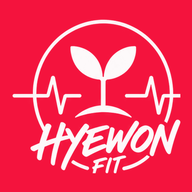
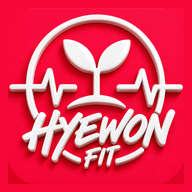
PWA 1.60.0 — 앱 아이콘을 3D 혜원핏 로고로(빨강 테마1·파랑 테마3)

diff --git a/index.html b/index.html
@@ -1,4 +1,5 @@
-<!-- 코드명: 혜원핏 PWA 학생앱 | index.html | @version 1.59.0 -->
+<!-- 코드명: 혜원핏 PWA 학생앱 | index.html | @version 1.60.0 -->
+<!--   [1.60.0] 앱 아이콘을 3D 혜원핏 로고로 — 빨강(테마 1)·파랑(테마 3)의 icon1/icon3 세트(180·192·512·maskable 192·512) 교체. 앱 안 로고(로그인·홈)도 같은 이미지(mask-512)를 쓴다. 이미 설치한 앱은 아이콘이 바로 안 바뀔 수 있다(다시 설치/홈 화면 추가). -->
 <!--   [1.59.0] 감상문 1번 «4주간의 나» 안내에 «계획대로 못 한 날·실패한 경험도 써요 — 왜 못 했는지, 그때 생각, 다음에는 어떻게»를 추가(4주를 못 채운 학생도 쓰도록). 글자수 기준(150자)은 그대로. -->
 <!--   [1.58.0] 감상문 2번 요소·원리 8칸의 최소 글자수(40자)를 없앴다 — 칸마다 «현재 N자»만 보이고, 비어 있지만 않으면 된다(서버 GAS 1.41.0).
         1번(150자)·3번(80자)·4번(80자)은 그대로. -->
@@ -2005,7 +2006,7 @@ body.apt::before{content:'🍎 애플 스타일 시범 · 3277';position:fixed;l
 <script>
 var API_BASE = 'https://script.google.com/macros/s/AKfycbzkiRulWoZvZs2q6NzDJM1I0aG43xnLjwuE-oY3PJ5R8kHbcSMRDfadG69kUIKzq-FN5A/exec';
 /* 학생앱(PWA) 버전·배포시각(KST) — 배포 때마다 갱신 */
-var PWA_VER = '1.59.0';
+var PWA_VER = '1.60.0';
 /* [1.34.0] 푸시 알림(FCM) — 파이어베이스 콘솔 «프로젝트 설정 → 일반 → 내 앱(웹)» 값. 비어 있으면 «🔔 알림 받기»가 «준비 중»으로 뜬다.
    sw.js 맨 위 FCM_CONFIG 에도 «똑같이» 채워야 한다(백그라운드 수신은 서비스워커가 처리). */
 var FCM_CONFIG = { apiKey:'AIzaSyC_InfCEKRIFqmFLus7npS4b-GejpDBJAE', authDomain:'heywonfit.firebaseapp.com', projectId:'heywonfit', storageBucket:'heywonfit.firebasestorage.app', messagingSenderId:'541314853089', appId:'1:541314853089:web:38220f47a5cb68ac696fa0' };

diff --git a/sw.js b/sw.js
@@ -6,7 +6,7 @@
    처음 이 판으로 바뀔 때도 옛 캐시에 있던 그림을 옮겨 담으므로 다시 받지 않는다.
    ★그림 파일을 «같은 이름»으로 바꿔 넣었으면 STATIC 숫자를 올릴 것 — 그래야 새 그림을 받는다.
    ★그림 한 장을 못 받아도 설치는 계속된다(예전 addAll 은 한 장만 없어도 설치가 통째로 실패했다). */
-var CACHE = 'grofit-v1.59.0';
+var CACHE = 'grofit-v1.60.0';
 var STATIC = 'grofit-static-1';
 
 /* [1.34.0] 푸시 알림(FCM) — 앱이 닫혀 있어도 알림이 뜨게. FCM_CONFIG 가 비어 있으면(파이어베이스 설정 전) 조용히 건너뛴다.
